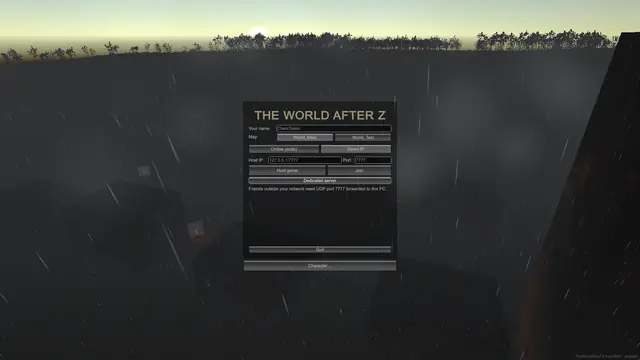
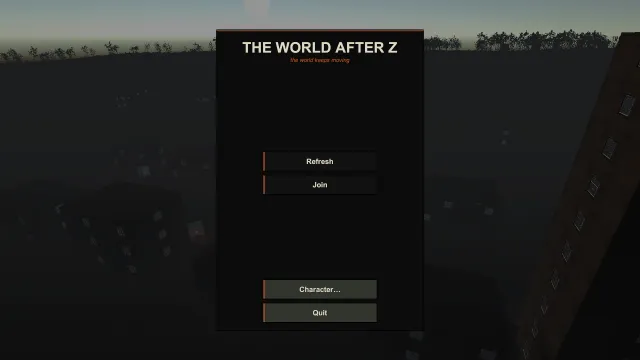
Replace website hero and gallery stills with 0.73 captures
Swap the old B6 / 0.3 marketing webps for clean 1920×1080 stills from the
0.73 player build. The hero is the afternoon grass meadow; the gallery
covers the new HUD, a house interior, night with the flashlight, a horde
on the town road, and the current main menu. Feature-card images follow
the same night and HUD shots. Unused old webps are removed.

diff --git a/src/content/screens.ts b/src/content/screens.ts
@@ -1,4 +1,4 @@
-// Clean marketing stills from the Unity build (Phase1 street + main menu). Files live in public/screens.
+// Clean marketing stills from the 0.73 Unity player build. Files live in public/screens.
 export type Screen = { src: string; thumb: string; alt: string; caption: string };
 
 const s = (slug: string, alt: string, caption: string): Screen => ({
@@ -10,33 +10,33 @@ const s = (slug: string, alt: string, caption: string): Screen => ({
 
 export const screens: Screen[] = [
   s(
-    "street-dusk",
-    "First-person view down a brick-lined city street at dusk, pistol raised toward silhouettes of zombies and abandoned cars in the distance, with survival vitals and a hotbar visible",
-    "Dusk on the street",
+    "grass-country-afternoon",
+    "Low view across a countryside meadow in the afternoon, with tall grass, bushes and trees under a clear blue sky",
+    "Grass in the afternoon",
   ),
   s(
-    "horde-closing",
-    "First-person view of zombies closing in mid-street at dusk, pistol in hand, with health, hunger and thirst icons in the corner",
-    "A horde closing in",
-  ),
-  s(
-    "hud-vitals",
-    "First-person view down a dusk street toward distant zombies, pistol in hand, with health, stamina, hunger, thirst and body temperature gauges and the weapon hotbar along the bottom",
+    "hud-town-shop",
+    "A brick town shop standing in open grassland at day, with the survival HUD along the bottom showing vitals and an empty hotbar, and the clock reading 14:01 Day",
     "The survival HUD",
   ),
   s(
-    "zombie-closeup",
-    "Close-up of a bald zombie in a torn dark shirt and shredded pants, lit from the side against a black background",
-    "One of the dead, up close",
+    "interior-house-b",
+    "Dim interior of a house: a stone fireplace, a doorway with a lit lantern, and a broken window looking out onto grass and trees",
+    "Inside a house",
   ),
   s(
-    "street-night",
-    "Nearly black first-person street at night lit only by a few distant orange streetlamps, survival bars and pistol ammo shown on the HUD",
-    "Night: only the lamps give light",
+    "night-flashlight-street",
+    "Night outside a brick building, a flashlight beam lighting the wall and an open doorway, with the clock showing 21:24 Night and the survival HUD visible",
+    "Night, flashlight on",
+  ),
+  s(
+    "horde-town-road",
+    "A group of zombies walking across open ground toward the camera, with town buildings and a treeline in the distance",
+    "A horde on the road",
   ),
   s(
     "main-menu",
-    "Main menu for The World After Z over a rainy, foggy city skyline, with host and join options and a playtest build tag",
+    "Main menu for The World After Z over a foggy dusk city, with Refresh, Join, Character and Quit options",
     "The main menu",
   ),
 ];

diff --git a/src/app/page.tsx b/src/app/page.tsx
@@ -18,12 +18,12 @@ const features: Feature[] = [
   {
     title: "Dark nights",
     body: "Night is really dark. Lamps, fires, flashlights and lit windows are what let you see.",
-    shot: screen("street-night"),
+    shot: screen("night-flashlight-street"),
   },
   {
     title: "Health, hunger, thirst",
     body: "Keep all three up. The HUD also tracks your body temperature against how cold it feels outside.",
-    shot: screen("hud-vitals"),
+    shot: screen("hud-town-shop"),
   },
   {
     title: "Four seasons",
@@ -42,7 +42,7 @@ const features: Feature[] = [
   },
 ];
 
-const hero = screen("street-dusk");
+const hero = screen("grass-country-afternoon");
 
 export default function Home() {
   return (
